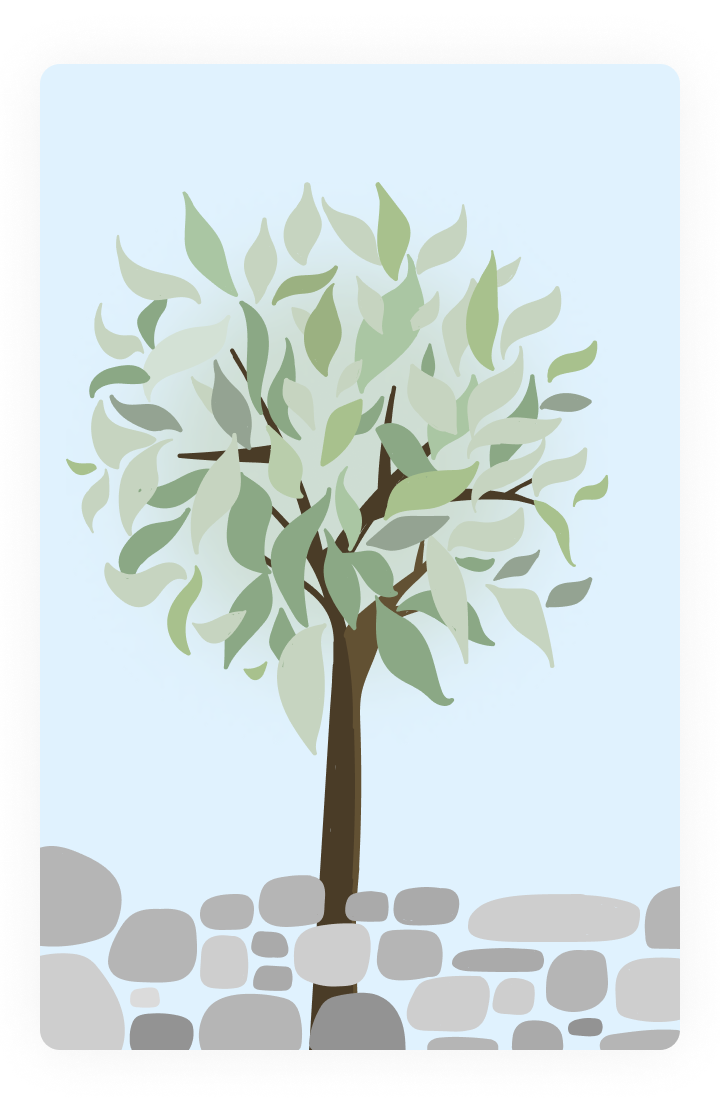
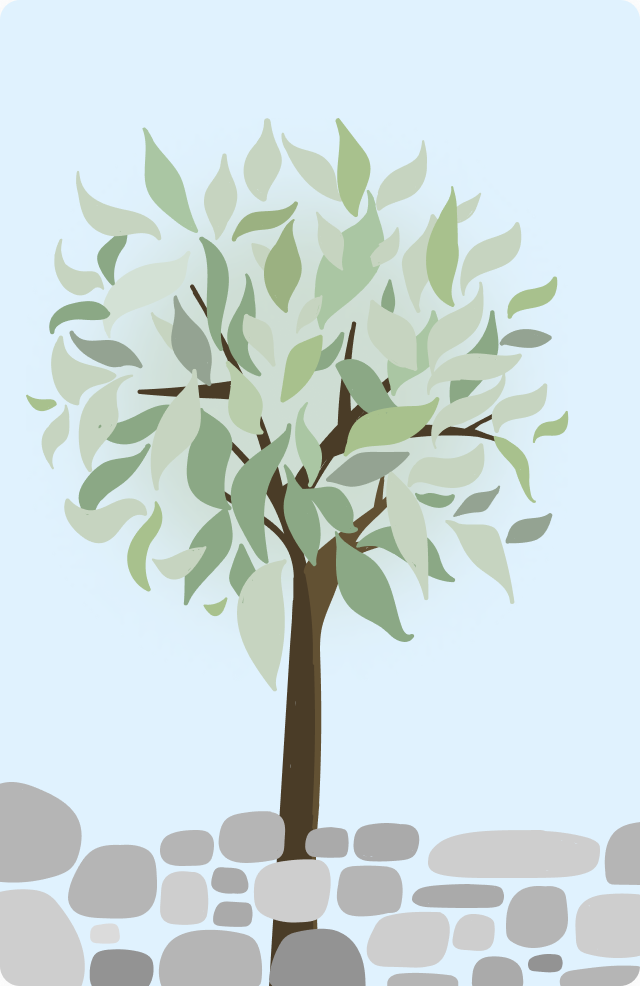
style: Home > 배치 조정
헤더, 바텀 네비게이션 높이 지정 (`layout.js`)

diff --git a/src/components/home/Home.js b/src/components/home/Home.js
@@ -1,24 +1,23 @@
 import React from 'react';
-import {Box, Image} from 'native-base';
-import GoToAroundScreenButton from './GoToAroundScreenButton';
+import {Column} from 'native-base';
 import {theme} from '../../styles/theme';
+import layout, {BOTTOM_HEIGHT, HEADER_HEIGHT} from '../../styles/layout';
+import Tree from './Tree';
+import GoToAroundScreenButton from './GoToAroundScreenButton';
 
 export default function Home() {
+  const HOME_HEIGHT = layout.window.height - HEADER_HEIGHT - BOTTOM_HEIGHT;
   return (
-    <Box
-      h={'100%'}
+    <Column
+      h={HOME_HEIGHT}
+      justifyContent={'center'}
       borderColor={theme.colors.divider}
       borderTopWidth={1}
-      borderBottomWidth={1}>
-      <Image
-        alt="tree background"
-        h={'67%'}
-        px={'20px'}
-        justifyContent={'flex-start'}
-        resizeMode={'contain'}
-        source={require(`../../assets/images/tree.png`)}
-      />
+      borderBottomWidth={1}
+      space={'5%'}
+      py={6}>
+      <Tree />
       <GoToAroundScreenButton />
-    </Box>
+    </Column>
   );
 }

diff --git a/src/components/home/LeftFlowers.js b/src/components/home/LeftFlowers.js
@@ -1,0 +1,34 @@
+import {Image, Row, Text} from 'native-base';
+import React from 'react';
+import {theme} from '../../styles/theme';
+
+function LeftFlowers({leftFlowers}) {
+  return (
+    <Row
+      h={'32px'}
+      w={'130px'}
+      bgColor={'white'}
+      borderRadius={16}
+      justifyContent={'space-between'}
+      alignItems={'center'}
+      px={3}>
+      <Row space={1} alignItems={'center'}>
+        <Image
+          alt="leaf icon"
+          size="16px"
+          source={require(`../../assets/images/leaf.png`)}
+        />
+        <Text fontSize={12} color={theme.colors.font}>
+          남은 꽃
+        </Text>
+      </Row>
+      <Row>
+        <Text fontSize={12} color={theme.colors.font} fontWeight={700}>
+          {leftFlowers.toString()}개
+        </Text>
+      </Row>
+    </Row>
+  );
+}
+
+export default LeftFlowers;

diff --git a/src/navigation/TabNavigator.js b/src/navigation/TabNavigator.js
@@ -4,8 +4,8 @@ import MyListStackNavigator from './MyListStackNavigator';
 import RememberStackNavigator from './RememberStackNavigator';
 import MyPageStackNavigator from './MyPageStackNavigator';
 import AroundStackNavigator from './AroundStackNavigator';
-
 import {createBottomTabNavigator} from '@react-navigation/bottom-tabs';
+import {BOTTOM_HEIGHT} from '../styles/layout';
 
 const Tab = createBottomTabNavigator();
 export default function TabNavigator() {
@@ -16,7 +16,7 @@ export default function TabNavigator() {
         tabBarActiveTintColor: 'black',
         tabBarStyle: {
           width: '100%',
-          height: '10%', // 74/776 = 10 % 로 어림해서 계산
+          height: BOTTOM_HEIGHT,
         },
       }}>
       <Tab.Screen

diff --git a/src/components/home/Tree.js b/src/components/home/Tree.js
@@ -1,0 +1,29 @@
+import {Box, Image, Row} from 'native-base';
+import React from 'react';
+import LeftFlowers from './LeftFlowers';
+import LeftWalks from './LeftWalks';
+
+function Tree() {
+  return (
+    <Box h={'80%'} mt={-5}>
+      <Row
+        position={'absolute'}
+        top={4}
+        zIndex={10}
+        justifyContent={'center'}
+        alignSelf={'center'}
+        space={5}>
+        <LeftFlowers leftFlowers={0} />
+        <LeftWalks leftWalks={0} />
+      </Row>
+      <Image
+        alt="tree background"
+        h={'100%'}
+        resizeMode={'contain'}
+        source={require(`../../assets/images/tree.png`)}
+      />
+    </Box>
+  );
+}
+
+export default Tree;

diff --git a/src/components/home/LeftWalks.js b/src/components/home/LeftWalks.js
@@ -1,0 +1,28 @@
+import {Image, Row, Text} from 'native-base';
+import React from 'react';
+import {theme} from '../../styles/theme';
+
+function LeftWalks({leftWalks}) {
+  return (
+    <Row
+      h={'32px'}
+      w={'130px'}
+      bgColor={'white'}
+      borderRadius={16}
+      justifyContent={'space-between'}
+      alignItems={'center'}
+      px={3}>
+      <Image
+        alt="leaf icon"
+        size="16px"
+        source={require(`../../assets/images/leaf.png`)}
+      />
+
+      <Text fontSize={12} color={theme.colors.font} fontWeight={700}>
+        {leftWalks.toString()}걸음
+      </Text>
+    </Row>
+  );
+}
+
+export default LeftWalks;

diff --git a/src/components/home/GoToAroundScreenButton.js b/src/components/home/GoToAroundScreenButton.js
@@ -7,12 +7,12 @@ function GoToAroundScreenButton() {
   return (
     <Pressable
       bgColor={theme.colors.main}
-      h={'10%'}
+      h={'50px'}
       w={'320px'}
       borderRadius={15}
       alignSelf={'center'}
       justifyContent={'center'}>
-      <Row w={'320px'} justifyContent={'space-around'}>
+      <Row justifyContent={'space-around'}>
         <Subhead3 style={{color: 'white'}}>여행지 방문해 꽃 더 모으기</Subhead3>
         <Image
           alt="arrow right"

diff --git a/src/components/home/header/Header.js b/src/components/home/header/Header.js
@@ -1,9 +1,15 @@
 import {Image, Row} from 'native-base';
 import React from 'react';
+import {HEADER_HEIGHT} from '../../../styles/layout';
 
 export default function Header() {
   return (
-    <Row justifyContent={'space-between'} px={18} py={5} bgColor={'white'}>
+    <Row
+      justifyContent={'space-between'}
+      alignItems={'center'}
+      h={HEADER_HEIGHT}
+      px={18}
+      bgColor={'white'}>
       <Image
         alt="logo"
         style={{width: 69, height: 33}}

diff --git a/src/styles/layout.js b/src/styles/layout.js
@@ -1,0 +1,16 @@
+import {Dimensions} from 'react-native';
+
+const width = Dimensions.get('window').width;
+const height = Dimensions.get('window').height;
+
+export default {
+  window: {
+    width,
+    height,
+  },
+  isSmallDevice: width < 375,
+};
+
+export const HEADER_HEIGHT = 52;
+export const BOTTOM_HEIGHT = 62;
+export const SCREEN_PADDING = '32px';
